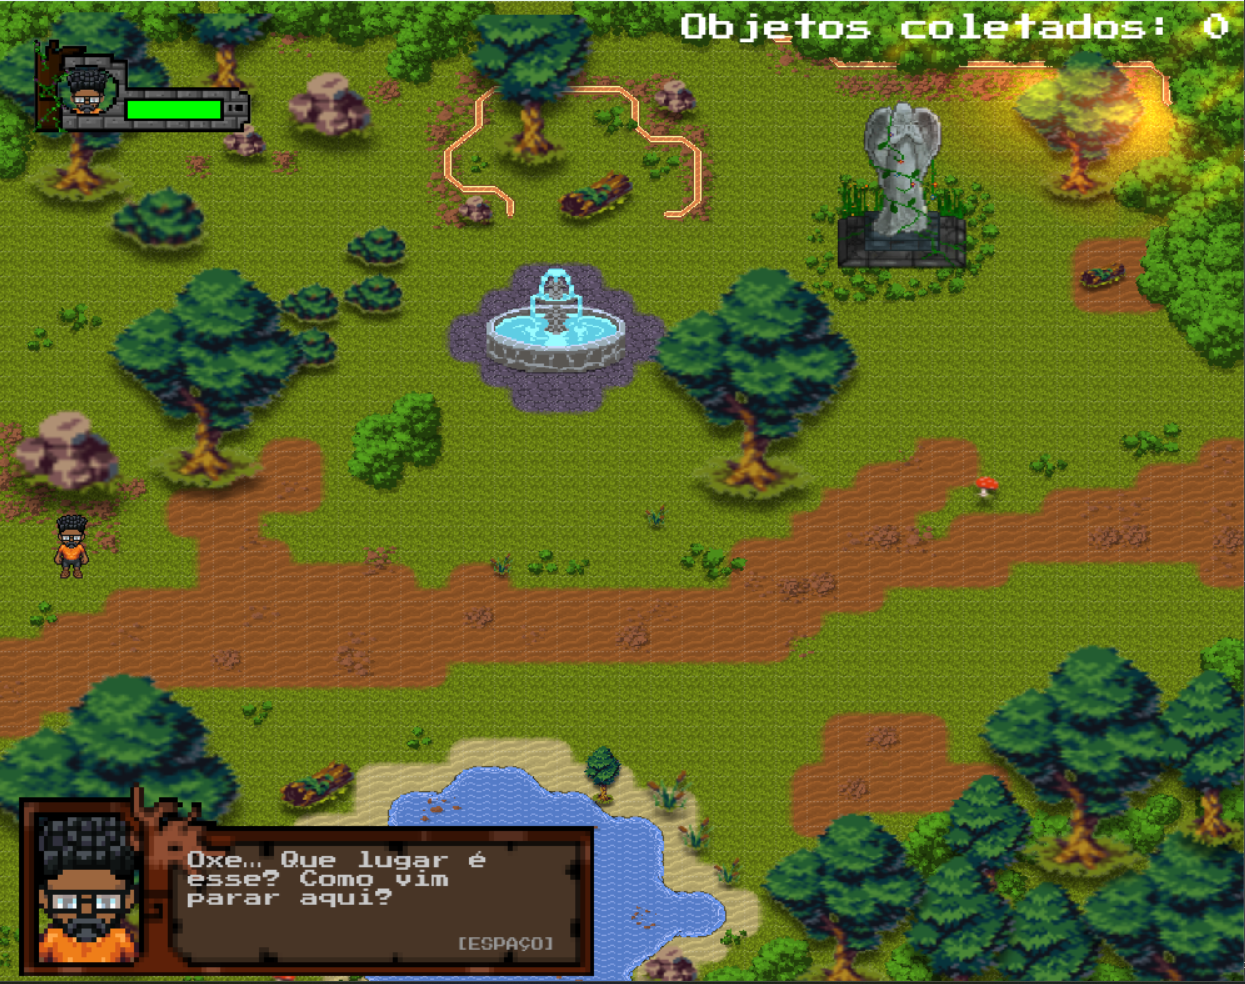
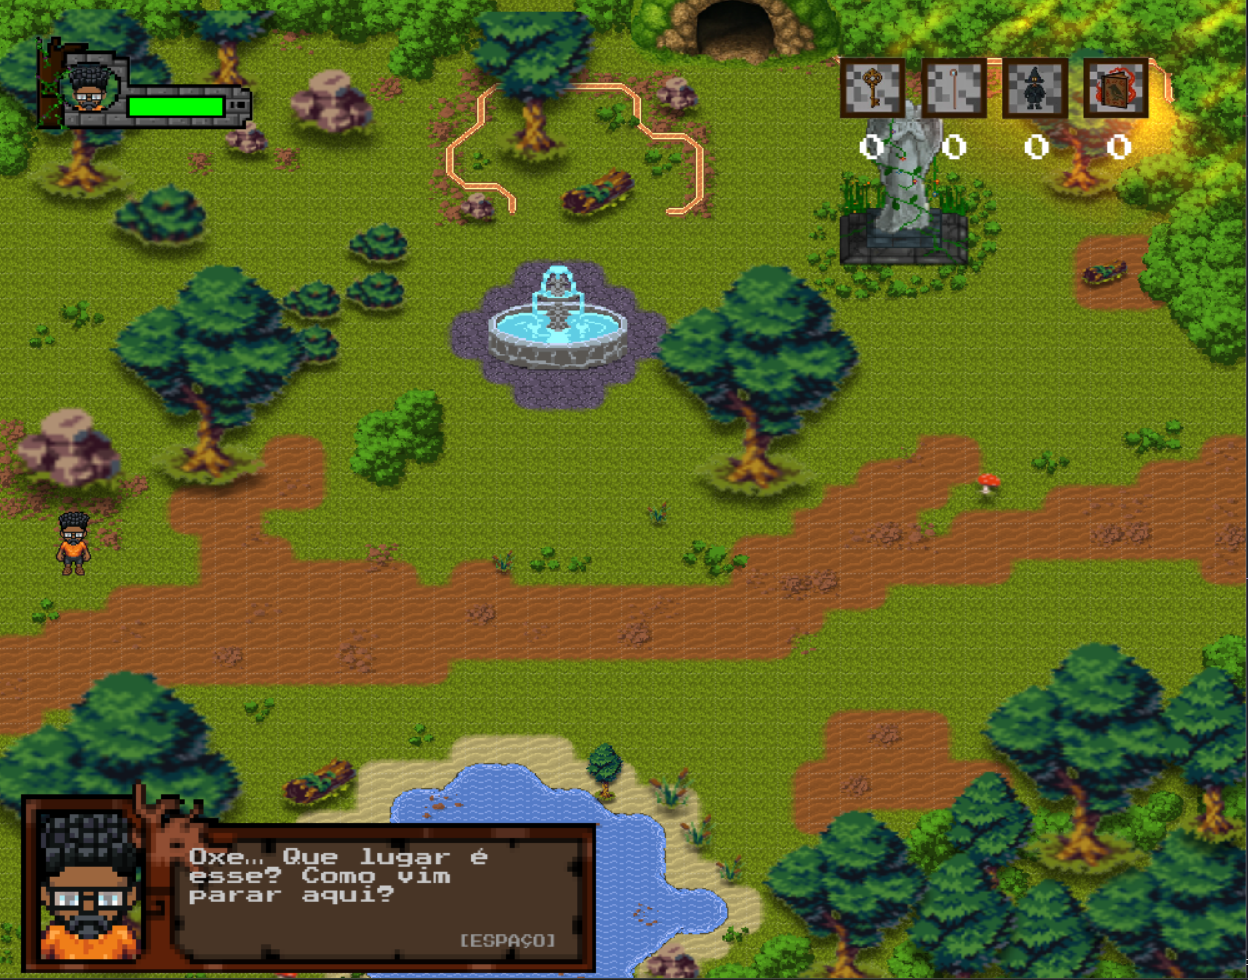
atualização das imagens

diff --git a/README.md b/README.md
@@ -30,7 +30,8 @@ Você é um aprendiz em busca dos lendários itens da Ordem dos Discretos: o Man
 <div style="display: flex; flex-wrap: wrap; justify-content: center; gap: 50px;">
   <img src="Imagens_Jogo_Relatorio/tela_inicial.png" alt="Tela Inicial" width="460"/>
   <img src="Imagens_Jogo_Relatorio/primeiro_mapa.png" alt="Primeiro mapa" width="460"/>
-  <img src="Imagens_Jogo_Relatorio/coleta_cajado.png" alt="Coleta de objeto" width="460"/>
+  <img src="Imagens_Jogo_Relatorio/caverna.png" alt="Mapa da Caverna" width="460"/>
+  <img src="Imagens_Jogo_Relatorio/mensagem_coleta.png" alt="Coleta de objeto" width="460"/>
   <img src="Imagens_Jogo_Relatorio/fight.png" alt="Luta com o Boss" width="460"/>
   <img src="Imagens_Jogo_Relatorio/tela_win.png" alt="Personagem ganha" width="460"/>
   <img src="Imagens_Jogo_Relatorio/Game_over.png" alt="Personagem perde/morre" width="460"/>
